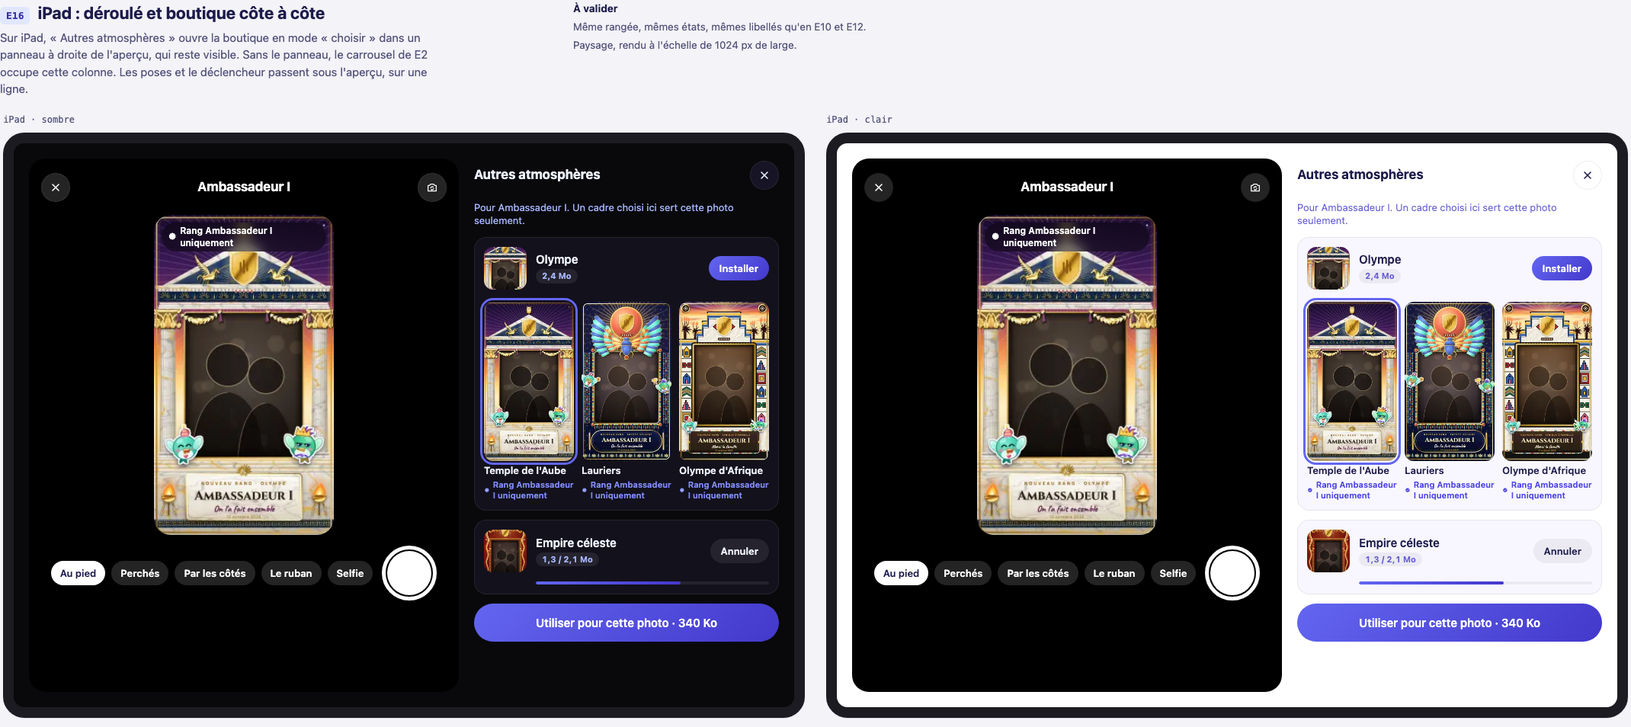
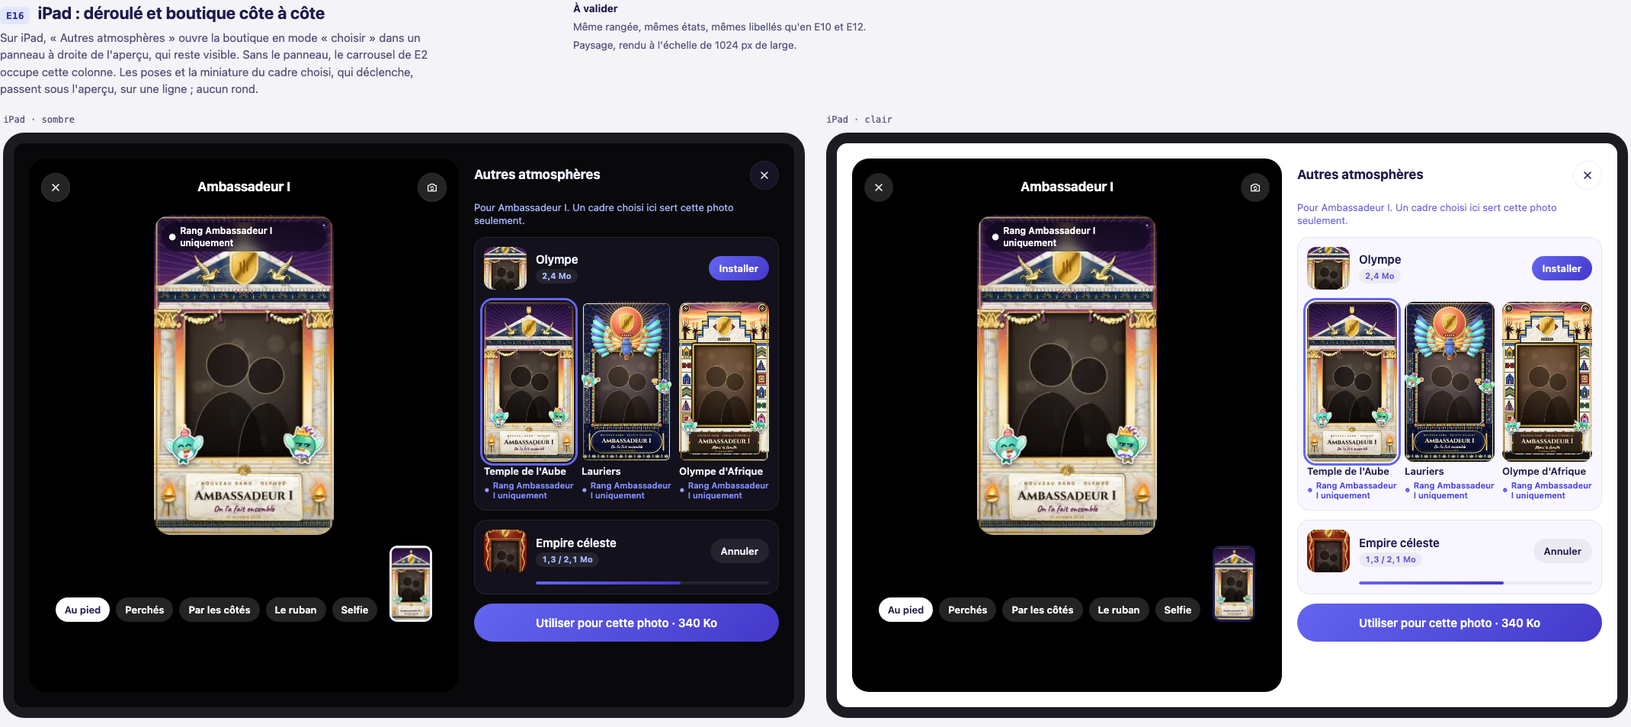
docs(cadres-de-gloire): brouillon L0b — plus de rond d'enregistrement à côté des cadres : la case du cadre choisi déclenche, comme la caméra du composer (bande ouverte, repliée, enregistrement) ; E18 prise par le cadre ⇒ Photos puis retouche, E19 prise hors cadre ⇒ retouche gardée dans Meeshy, E20 E

diff --git a/docs/product/cadres-de-gloire/ecrans/index.html b/docs/product/cadres-de-gloire/ecrans/index.html
@@ -151,11 +151,54 @@ figure { margin: 0; }
 .poses { display: flex; gap: 8px; overflow: hidden; }
 .poses span { flex: none; font: 600 13px var(--font-round); padding: 8px 12px; border-radius: 999px; background: rgba(255,255,255,.14); color: #fff; }
 .poses span.on { background: #fff; color: #1e1b4b; }
-.shutter-row { display: flex; align-items: center; justify-content: space-between; padding: 0 12px; }
-.shutter { width: 74px; height: 74px; border-radius: 50%; border: 5px solid #fff; display: grid; place-items: center; }
-.shutter::after { content: ""; width: 58px; height: 58px; border-radius: 50%; background: #fff; }
 .cam .circle { background: rgba(255,255,255,.14); color: #fff; border-color: rgba(255,255,255,.18); }
 .cam .link { color: rgba(255,255,255,.85); }
+
+/* La bande du composer iOS (ComposerLookStrip, ComposerCaptureBottomRow) : la case choisie EST le déclencheur.
+   Cases 56 × 100, pas de 8, rayon MeeshyRadius.sm ; la choisie au centre, contour blanc de 3 ; rien d'écrit dans les cases,
+   seul le nom du choix s'écrit sous la bande. Le rond n'existe que sans cadre (collapsedTrigger = .shutter). */
+.band-zone { display: flex; flex-direction: column; align-items: stretch; gap: 0; position: relative; }
+.band { display: flex; gap: 8px; justify-content: center; overflow: hidden; height: 100px; }
+.cell { flex: none; width: 56px; height: 100px; border-radius: 10px; overflow: hidden; position: relative; background: rgba(255,255,255,.12); box-shadow: inset 0 0 0 1px rgba(255,255,255,.25); }
+.cell img { width: 100%; height: 100%; object-fit: cover; display: block; }
+.cell.dim img { filter: saturate(.35) brightness(.7); }
+.cell.on { box-shadow: inset 0 0 0 3px #fff; }
+.cell.on img { position: absolute; inset: 3px; width: calc(100% - 6px); height: calc(100% - 6px); border-radius: 7px; }
+.cell .glyph { position: absolute; inset: 0; display: grid; place-items: center; color: rgba(255,255,255,.7); }
+.cell .glyph svg { width: 20px; height: 20px; }
+.cell .ring { background: rgba(0,0,0,.35); }
+.cell .ring svg { width: 26px; height: 26px; }
+.cell .badge-c { inset: auto 3px 4px 3px; }
+.cell .badge-c .pill { font-size: 9.5px; padding: 1px 5px; }
+.cell .rec { position: absolute; top: 4px; left: 50%; transform: translateX(-50%); display: inline-flex; align-items: center; gap: 3px; padding: 0 6px; border-radius: 999px; background: rgba(0,0,0,.45); font: 700 11px var(--font-mono); color: #fff; white-space: nowrap; }
+.rec i, .chrono i { width: 7px; height: 7px; border-radius: 50%; background: #f87171; display: inline-block; }
+.band-name { height: 30px; display: flex; align-items: flex-end; justify-content: center; font: 700 20px var(--font-round); color: #fff; text-shadow: 0 1px 3px rgba(0,0,0,.6); white-space: nowrap; overflow: hidden; }
+.band-name.quiet { visibility: hidden; }
+.lock-track { position: absolute; right: 14px; top: 34px; display: flex; align-items: center; gap: 6px; padding: 6px 10px; border-radius: 999px; background: rgba(255,255,255,.14); color: #fff; font-size: 12px; }
+.lock-track svg { width: 15px; height: 15px; }
+.chrono { display: inline-flex; align-items: center; gap: 6px; padding: 6px 12px; border-radius: 999px; background: rgba(0,0,0,.45); font: 700 13px var(--font-mono); color: #fff; }
+.rail { position: absolute; left: 8px; bottom: 10px; display: flex; flex-direction: column; gap: 8px; pointer-events: none; }
+.rail.row { position: static; flex-direction: row; justify-content: center; gap: 28px; }
+.rail span { min-width: 44px; min-height: 44px; display: flex; flex-direction: column; align-items: center; justify-content: center; gap: 2px; font: 600 11px var(--font-ui); color: #fff; text-shadow: 0 1px 3px rgba(0,0,0,.6); }
+.rail span svg { width: 19px; height: 19px; filter: drop-shadow(0 1px 2px rgba(0,0,0,.6)); }
+.rail span.on { color: #ffcc00; }
+.trigger-ring { width: 72px; height: 72px; border-radius: 50%; box-shadow: inset 0 0 0 4px #fff; display: grid; place-items: center; margin: 14px auto; }
+.trigger-ring::after { content: ""; width: 58px; height: 58px; border-radius: 50%; background: #fff; }
+.hint { text-align: center; font: 12.5px var(--font-mono); color: rgba(255,255,255,.85); margin: 0; }
+.cam-top { display: flex; align-items: center; gap: 8px; min-height: 44px; }
+.cam-top .spacer { flex: 1; }
+.done { font: 600 15px var(--font-round); padding: 8px 16px; border-radius: 999px; background: #fff; color: #1e1b4b; }
+.toast { position: absolute; left: 50%; top: 104px; transform: translateX(-50%); display: inline-flex; align-items: center; gap: 6px; padding: 8px 14px; border-radius: 999px; background: var(--s-glass); backdrop-filter: blur(20px); border: 0.5px solid var(--s-edge); color: var(--s-ink); font: 600 13px var(--font-round); white-space: nowrap; box-shadow: 0 6px 20px rgba(0,0,0,.25); z-index: 2; }
+.toast svg { width: 15px; height: 15px; color: #34d399; }
+.saved-mark { display: inline-flex; align-items: center; gap: 4px; font-size: 12px; color: var(--s-ink3); justify-content: center; }
+.saved-mark svg { width: 13px; height: 13px; }
+.cam .saved-mark { color: rgba(255,255,255,.7); }
+.dev:not(.cam) .cell { box-shadow: inset 0 0 0 1px var(--s-edge); }
+.dev:not(.cam) .cell.on { box-shadow: inset 0 0 0 3px var(--s-ink); }
+.dev:not(.cam) .band-name { color: var(--s-ink); text-shadow: none; font-size: 17px; height: 26px; }
+.ann { font: 600 11px var(--font-mono); color: #fbbf24; text-align: center; margin: 0; }
+.t-light .ann { color: #b45309; }
+.cam .ann { color: #fbbf24; }
 
 /* Feuille modale / bannière */
 .dim-under { position: absolute; inset: 0; background: rgba(0,0,0,.42); }
@@ -235,6 +278,15 @@ figure { margin: 0; }
   <symbol id="i-up-app" viewBox="0 0 24 24"><rect x="3.5" y="3.5" width="17" height="17" rx="4.5" stroke="currentColor" stroke-width="2" fill="none"/><path d="M12 16V8m0 0l-3.5 3.5M12 8l3.5 3.5" stroke="currentColor" stroke-width="2" fill="none" stroke-linecap="round" stroke-linejoin="round"/></symbol>
   <symbol id="i-chev" viewBox="0 0 24 24"><path d="M9 5l7 7-7 7" stroke="currentColor" stroke-width="2.2" fill="none" stroke-linecap="round" stroke-linejoin="round"/></symbol>
   <symbol id="i-flame" viewBox="0 0 24 24"><path fill="currentColor" d="M12 2c1 4 5 5.5 5 11a5 5 0 01-10 0c0-2.4 1.2-3.7 2.2-4.8.2 1.6.9 2.6 1.8 3C11 8 11.2 4.6 12 2z"/></symbol>
+  <symbol id="i-frame" viewBox="0 0 24 24"><rect x="3.5" y="3.5" width="17" height="17" rx="2" stroke="currentColor" stroke-width="2" fill="none"/><rect x="7.5" y="7.5" width="9" height="9" rx="1" stroke="currentColor" stroke-width="1.6" fill="none"/></symbol>
+  <symbol id="i-filters" viewBox="0 0 24 24"><circle cx="9" cy="10" r="5.5" stroke="currentColor" stroke-width="1.8" fill="none"/><circle cx="15" cy="10" r="5.5" stroke="currentColor" stroke-width="1.8" fill="none"/><circle cx="12" cy="15" r="5.5" stroke="currentColor" stroke-width="1.8" fill="none"/></symbol>
+  <symbol id="i-crop" viewBox="0 0 24 24"><path d="M7 2.5V17h14.5M2.5 7H17v14.5" stroke="currentColor" stroke-width="2" fill="none" stroke-linecap="round" stroke-linejoin="round"/></symbol>
+  <symbol id="i-lock" viewBox="0 0 24 24"><rect x="5" y="10.5" width="14" height="10" rx="2.5" fill="currentColor"/><path d="M8 10.5V8a4 4 0 018 0v2.5" stroke="currentColor" stroke-width="2" fill="none"/></symbol>
+  <symbol id="i-check" viewBox="0 0 24 24"><circle cx="12" cy="12" r="10" fill="currentColor"/><path d="M7.5 12.2l3 3 6-6.4" stroke="#fff" stroke-width="2.2" fill="none" stroke-linecap="round" stroke-linejoin="round"/></symbol>
+  <symbol id="i-size" viewBox="0 0 24 24"><path d="M4 9V4h5M20 9V4h-5M4 15v5h5M20 15v5h-5" stroke="currentColor" stroke-width="2.2" fill="none" stroke-linecap="round" stroke-linejoin="round"/></symbol>
+  <symbol id="i-bolt" viewBox="0 0 24 24"><path fill="currentColor" d="M13.5 2L5 13.5h6L10 22l9-12h-6z"/></symbol>
+  <symbol id="i-none" viewBox="0 0 24 24"><circle cx="12" cy="12" r="8.5" stroke="currentColor" stroke-width="2" fill="none"/><path d="M6 18L18 6" stroke="currentColor" stroke-width="2"/></symbol>
+  <symbol id="i-app" viewBox="0 0 24 24"><rect x="4" y="3" width="16" height="18" rx="4" stroke="currentColor" stroke-width="2" fill="none"/><path d="M8.5 9h7M8.5 13h4.5" stroke="currentColor" stroke-width="2" stroke-linecap="round"/></symbol>
   <symbol id="i-link" viewBox="0 0 24 24"><path d="M10 14a4 4 0 005.7 0l3-3a4 4 0 00-5.7-5.7l-1 1M14 10a4 4 0 00-5.7 0l-3 3a4 4 0 005.7 5.7l1-1" stroke="currentColor" stroke-width="2" fill="none" stroke-linecap="round"/></symbol>
 </svg>
 
@@ -243,6 +295,7 @@ figure { margin: 0; }
     <h1>Cadres de gloire · les écrans neufs</h1>
     <p>Brouillon de design du lot L0b (<code>#10147</code>), daté du 12 octobre 2026. Chaque écran se valide séparément par son numéro (E1 à E17). Tous sont dérivés de l'interface iOS livrée : jetons <code>MeeshyColors</code>, boutons en verre, Boutique des packs (<code>PackShopView</code>, <code>FramePackShelfView</code>, <code>pack-shop.tsx</code> sur le web).</p>
     <p>Chaque vignette de cadre affiche son <b>libellé d'usage</b>, tiré de la loi <code>describeFrameUsage</code> et des textes déjà traduits (« Rang Ambassadeur I uniquement », « Capture photo et vidéo uniquement »…). Les poids des packs sont des estimations de la spec (§ 5.10.5), que le lot L3 mesurera. Les mots entre guillemets sont proposés et restent à valider ; les noms de cadres (« Baobab d'or », « Temple de l'Aube »…) sont provisoires, le lot L16 les fixera. Une étape sans cadre livré (les mythologies de Murmure à Polyglotte, lot L15) montre la carte actuelle.</p>
+    <p><b>Révisé le 12 octobre 2026 sur le retour du porteur (#10284)</b> : il n'y a plus de rond d'enregistrement à côté des cadres. Comme dans la caméra du composer iOS, la case du cadre choisi EST le déclencheur (E2, E3, E14, E16). Une prise par la case de cadre rejoint Photos puis la retouche (E18) ; une prise hors du cadre va en retouche et reste dans Meeshy (E19) ; « Enregistrer » est masqué tant que la prise est dans Photos avec le cadre affiché, et revient quand on en change (E20). Le rond ne subsiste que sans aucun cadre choisi (E14, variante 2).</p>
     <p>Chaque écran est montré en clair, en sombre et, quand la largeur change la disposition, à 320 px. L'iPad (E16) et le web de bureau (E17) ont leur propre composition.</p>
     <nav aria-label="Écrans"><ul class="toc" id="toc"></ul></nav>
   </header>
@@ -274,26 +327,45 @@ figure { margin: 0; }
   </section>
 
   <!-- E2 -->
-  <section class="screen-section" id="e2" data-name="Écran caméra et carrousel">
+  <section class="screen-section" id="e2" data-name="Caméra : la case de cadre déclenche">
     <div class="screen-head">
-      <div><h2><span class="id">E2</span> Déroulé photo : caméra, carrousel de décors et poses</h2>
-      <p class="lead">Chemin nominal en deux gestes : « Immortaliser » puis déclencher, cadre et pose déjà choisis. Sous l'aperçu, le carrousel des décors de l'atmosphère, puis les poses de Mee et Meo. L'aperçu à l'écran est l'image finale.</p></div>
-      <div class="note"><b>À valider : la présence de chaque tuile</b><span>Prête (vignette nette), à télécharger (pastille de poids), en cours (anneau), échec (« Réessayer »), plus de place (pastille rouge).</span><span>Toucher une tuile absente la met en tête de file ; l'aperçu bascule quand le cadre est prêt, sans spinner, avec la carte simple en attendant.</span><span>Le cadre choisi affiche son usage sur l'aperçu. « Autres atmosphères » ouvre la boutique en mode « choisir » (E12).</span></div>
+      <div><h2><span class="id">E2</span> Déroulé photo : la bande des cadres, dont la case choisie déclenche</h2>
+      <p class="lead">La caméra du composer iOS, reprise telle quelle (<code>ComposerLookStrip</code>, <code>ComposerCaptureBottomRow</code>) : la bande des décors de l'atmosphère, la case choisie au centre, encadrée de blanc, et son nom écrit seul sous la bande. <b>La case choisie EST le déclencheur</b> : la toucher prend la photo, la tenir filme. Il n'y a pas de rond en plus. Les poses de Mee et Meo restent au-dessus de la bande.</p></div>
+      <div class="note"><b>À valider</b><span>Une prise par la case de cadre rejoint Photos, puis la retouche (E18). Une prise par la scène (toucher deux fois l'aperçu, ou le tenir) va en retouche et reste dans Meeshy seulement (E19).</span><span>Les cases n'écrivent rien : la présence de chaque décor se lit sur sa case (prête, poids, anneau de téléchargement, « Réessayer », « Plein »). Glisser la bande choisit la case du centre ; une case absente passe en tête de file, la carte simple tient l'aperçu en attendant.</span><span>Le « + » en bout de bande ouvre « Autres atmosphères » (E12). Le rail « Filtres · Cadres » est celui du composer. L'import depuis la galerie prend la place du flash en haut ; « Carte seule » reste dans la feuille « On immortalise ? ».</span><span>Repliée (rail refermé), la miniature choisie reste seule et déclenche toujours. En enregistrement, seule elle reste, avec son point rouge et son chrono, et le cadenas à droite.</span><span>La caméra est noire dans les deux thèmes, comme celle du composer.</span></div>
     </div>
-    <div class="stage" data-variants="dark 320" data-force="cam"><template>
+    <div class="stage" data-variants="dark 320" data-force="cam"><template data-label="bande ouverte">
       <div class="content">
-        <div class="nav"><span class="circle"><svg><use href="#i-x"/></svg></span><h3>Ambassadeur I</h3><span class="circle"><svg><use href="#i-flip"/></svg></span></div>
-        <div class="viewer"><img src="vignettes/savane-ambassadeur-1.webp" alt="Aperçu : cadre Savane d'Ambassadeur I"><div class="over"><span class="usage on-media" style="align-self:flex-start"><svg><use href="#i-seal"/></svg>Rang Ambassadeur I uniquement</span></div></div>
-        <div class="carousel">
-          <div class="ctile sel"><div class="thumb"><img src="vignettes/savane-ambassadeur-1.webp" alt=""></div><span class="lbl">Baobab d'or</span></div>
-          <div class="ctile"><div class="thumb"><img src="vignettes/royaumes-ambassadeur-1.webp" alt=""></div><span class="lbl">Cour du roi</span></div>
-          <div class="ctile"><div class="thumb dim"><img src="vignettes/egypte-ambassadeur-1.webp" alt=""><div class="ring"><svg viewBox="0 0 36 36"><circle cx="18" cy="18" r="14" stroke="rgba(255,255,255,.35)" stroke-width="4" fill="none"/><circle cx="18" cy="18" r="14" stroke="#fff" stroke-width="4" fill="none" stroke-dasharray="88" stroke-dashoffset="50" transform="rotate(-90 18 18)" stroke-linecap="round"/></svg></div></div><span class="lbl">En cours</span></div>
-          <div class="ctile"><div class="thumb dim"><img src="vignettes/olympe-ambassadeur-1.webp" alt=""><div class="badge-c"><span class="pill">340 Ko</span></div></div><span class="lbl">Temple</span></div>
-          <div class="ctile"><div class="thumb dim"><img src="vignettes/nord-ambassadeur-1.webp" alt=""><div class="ring"><svg viewBox="0 0 24 24" style="width:22px;height:22px;color:#fff"><use href="#i-retry"/></svg></div></div><span class="lbl">Réessayer</span></div>
-          <div class="ctile"><div class="thumb dim"><img src="vignettes/abysses-ambassadeur-1.webp" alt=""><div class="badge-c"><span class="pill" style="background:#991b1b">Plein</span></div></div><span class="lbl">Plus de place</span></div>
-        </div>
+        <div class="cam-top"><span class="circle"><svg><use href="#i-x"/></svg></span><span class="spacer"></span><span class="circle"><svg><use href="#i-photo"/></svg></span><span class="circle"><svg><use href="#i-flip"/></svg></span></div>
+        <div class="viewer"><img src="vignettes/savane-ambassadeur-1.webp" alt="Aperçu : cadre Baobab d'or, Ambassadeur I"><div class="over"><span class="usage on-media" style="align-self:flex-start"><svg><use href="#i-seal"/></svg>Rang Ambassadeur I uniquement</span></div><div class="rail"><span><svg><use href="#i-filters"/></svg>Filtres</span><span class="on"><svg><use href="#i-frame"/></svg>Cadres</span></div></div>
         <div class="poses"><span class="on">Au pied</span><span>Perchés</span><span>Par les côtés</span><span>Le ruban</span><span>Selfie</span></div>
-        <div class="shutter-row"><span class="circle"><svg><use href="#i-photo"/></svg></span><span class="shutter" aria-label="Prendre la photo"></span><span class="link">Autres<br>atmosphères</span></div>
+        <div class="band-zone">
+          <div class="band">
+            <span class="cell"><img src="vignettes/celeste-ambassadeur-1.webp" alt=""></span>
+            <span class="cell dim"><img src="vignettes/nord-ambassadeur-1.webp" alt=""><span class="ring glyph"><svg viewBox="0 0 24 24" style="color:#fff"><use href="#i-retry"/></svg></span></span>
+            <span class="cell"><img src="vignettes/neon-ambassadeur-1.webp" alt=""></span>
+            <span class="cell"><img src="vignettes/royaumes-ambassadeur-1.webp" alt=""></span>
+            <span class="cell on" role="button" aria-label="Baobab d'or : toucher pour une photo, maintenir pour filmer"><img src="vignettes/savane-ambassadeur-1.webp" alt=""></span>
+            <span class="cell dim"><img src="vignettes/egypte-ambassadeur-1.webp" alt=""><span class="ring"><svg viewBox="0 0 36 36"><circle cx="18" cy="18" r="14" stroke="rgba(255,255,255,.35)" stroke-width="4" fill="none"/><circle cx="18" cy="18" r="14" stroke="#fff" stroke-width="4" fill="none" stroke-dasharray="88" stroke-dashoffset="50" transform="rotate(-90 18 18)" stroke-linecap="round"/></svg></span></span>
+            <span class="cell dim"><img src="vignettes/olympe-ambassadeur-1.webp" alt=""><span class="badge-c"><span class="pill">340 Ko</span></span></span>
+            <span class="cell dim"><img src="vignettes/abysses-ambassadeur-1.webp" alt=""><span class="badge-c"><span class="pill" style="background:#991b1b">Plein</span></span></span>
+            <span class="cell"><span class="glyph"><svg><use href="#i-plus"/></svg></span></span>
+          </div>
+          <div class="band-name">Baobab d'or</div>
+        </div>
+      </div>
+    </template><template data-label="repliée : la miniature choisie, seule" data-variants="dark">
+      <div class="content">
+        <div class="cam-top"><span class="circle"><svg><use href="#i-x"/></svg></span><span class="spacer"></span><span class="circle"><svg><use href="#i-photo"/></svg></span><span class="circle"><svg><use href="#i-flip"/></svg></span></div>
+        <div class="viewer"><img src="vignettes/savane-ambassadeur-1.webp" alt="Aperçu : cadre Baobab d'or"><div class="over"><span class="usage on-media" style="align-self:flex-start"><svg><use href="#i-seal"/></svg>Rang Ambassadeur I uniquement</span></div><div class="rail"><span><svg><use href="#i-filters"/></svg>Filtres</span><span><svg><use href="#i-frame"/></svg>Cadres</span></div></div>
+        <div class="poses"><span class="on">Au pied</span><span>Perchés</span><span>Par les côtés</span><span>Le ruban</span><span>Selfie</span></div>
+        <div class="band-zone"><div class="band"><span class="cell on" role="button" aria-label="Baobab d'or : toucher pour une photo, maintenir pour filmer"><img src="vignettes/savane-ambassadeur-1.webp" alt=""></span></div><div class="band-name quiet">Baobab d'or</div></div>
+      </div>
+    </template><template data-label="enregistrement en cours" data-variants="dark">
+      <div class="content">
+        <div class="cam-top"><span class="circle"><svg><use href="#i-x"/></svg></span><span class="chrono"><i></i>0:04</span><span class="spacer"></span></div>
+        <div class="viewer"><img src="vignettes/savane-ambassadeur-1.webp" alt="Aperçu : cadre Baobab d'or, vidéo en cours"><div class="over"><span class="usage on-media" style="align-self:flex-start"><svg><use href="#i-seal"/></svg>Rang Ambassadeur I uniquement</span></div></div>
+        <div class="poses" style="visibility:hidden"><span>Au pied</span></div>
+        <div class="band-zone"><div class="band"><span class="cell on"><img src="vignettes/savane-ambassadeur-1.webp" alt=""><span class="rec"><i></i>4″</span></span></div><span class="lock-track" aria-hidden="true">› › <svg><use href="#i-lock"/></svg></span><div class="band-name quiet">Baobab d'or</div></div>
       </div>
     </template></div>
   </section>
@@ -303,14 +375,14 @@ figure { margin: 0; }
     <div class="screen-head">
       <div><h2><span class="id">E3</span> Pose « Selfie » et guide de cadrage</h2>
       <p class="lead">Seule pose où Meo entre dans la photo, et seulement si on la choisit. Un guide place le visage hors de sa zone, sans aucune analyse de l'image. Les autres poses gardent Mee et Meo autour de la fenêtre, jamais dessus.</p></div>
-      <div class="note"><b>À valider</b><span>Ovale pointillé blanc pour le visage, zone hachurée ambre pour Meo, une phrase d'aide qui s'efface après trois secondes.</span><span>Carte seule et galerie restent dans la même rangée que le déclencheur.</span></div>
+      <div class="note"><b>À valider</b><span>Ovale pointillé blanc pour le visage, zone hachurée ambre pour Meo, une phrase d'aide qui s'efface après trois secondes.</span><span>Le bas est celui de E2, bande repliée : la miniature du cadre choisi déclenche, aucun rond à côté. « Carte seule » reste dans la feuille « On immortalise ? ».</span></div>
     </div>
-    <div class="stage" data-variants="dark light" data-force="cam"><template>
+    <div class="stage" data-variants="dark" data-force="cam"><template>
       <div class="content">
-        <div class="nav"><span class="circle"><svg><use href="#i-x"/></svg></span><h3>Ambassadeur I</h3><span class="circle"><svg><use href="#i-flip"/></svg></span></div>
-        <div class="viewer"><img src="vignettes/royaumes-ambassadeur-1.webp" alt=""><span class="guide"></span><span class="meo-zone"></span><div class="over" style="justify-content:flex-end"><span class="usage on-media" style="align-self:center">Garde ton visage dans l'ovale, Meo se place à droite</span></div></div>
+        <div class="cam-top"><span class="circle"><svg><use href="#i-x"/></svg></span><span class="spacer"></span><span class="circle"><svg><use href="#i-photo"/></svg></span><span class="circle"><svg><use href="#i-flip"/></svg></span></div>
+        <div class="viewer"><img src="vignettes/royaumes-ambassadeur-1.webp" alt="Aperçu : cadre Cour du roi, pose Selfie"><span class="guide"></span><span class="meo-zone"></span><div class="over" style="justify-content:flex-end"><span class="usage on-media" style="align-self:center">Garde ton visage dans l'ovale, Meo se place à droite</span></div><div class="rail" style="bottom:52px"><span><svg><use href="#i-filters"/></svg>Filtres</span><span><svg><use href="#i-frame"/></svg>Cadres</span></div></div>
         <div class="poses"><span>Au pied</span><span>Perchés</span><span>Par les côtés</span><span>Le ruban</span><span class="on">Selfie</span></div>
-        <div class="shutter-row"><span class="circle"><svg><use href="#i-photo"/></svg></span><span class="shutter"></span><span class="link">Carte<br>seule</span></div>
+        <div class="band-zone"><div class="band"><span class="cell on" role="button" aria-label="Cour du roi : toucher pour une photo, maintenir pour filmer"><img src="vignettes/royaumes-ambassadeur-1.webp" alt=""></span></div><div class="band-name quiet">Cour du roi</div></div>
       </div>
     </template></div>
   </section>
@@ -320,7 +392,7 @@ figure { margin: 0; }
     <div class="screen-head">
       <div><h2><span class="id">E4</span> Résultat : message, Flamme, lien, et cadre d'une autre atmosphère</h2>
       <p class="lead">L'image fixe, recomposée depuis la photo. On y change cadre, pose et message sans reprendre la photo. Ici le cadre vient d'Olympe, pris « pour cette photo seulement » : d'où « Faire d'Olympe mon atmosphère » et, plus discret, « Ajouter à mes cadres ».</p></div>
-      <div class="note"><b>À valider</b><span>Champ de message seulement sur un cadre qui a un support (ruban, cartouche, parchemin) : 60 caractères au plus, une ligne, police manuscrite, aucun texte par défaut.</span><span>« Afficher ma Flamme » et « Partager avec mon lien », sur le web comme sur iOS. Formats 9:16 et 1:1.</span><span>Ordre des gestes : Partager, Enregistrer, Garder.</span></div>
+      <div class="note"><b>À valider</b><span>Champ de message seulement sur un cadre qui a un support (ruban, cartouche, parchemin) : 60 caractères au plus, une ligne, police manuscrite, aucun texte par défaut.</span><span>« Afficher ma Flamme » et « Partager avec mon lien », sur le web comme sur iOS. Formats 9:16 et 1:1.</span><span>Ordre des gestes : Partager, Enregistrer, Garder. « Enregistrer » n'apparaît que si la prise n'est pas déjà dans Photos avec ce cadre (E18 à E20).</span></div>
     </div>
     <div class="stage" data-variants="light dark 320"><template>
       <div class="content">
@@ -343,6 +415,95 @@ figure { margin: 0; }
         <div class="card" style="padding:10px 12px"><div class="row"><span class="grow sub" style="flex:1">Ce cadre vient d'Olympe.</span><button class="btn sm">Faire d'Olympe mon atmosphère</button></div><span class="link" style="text-align:left">Ajouter à mes cadres</span></div>
         <div class="row" style="margin-top:auto"><button class="btn sec" style="flex:1">Partager</button><button class="btn sec" style="flex:1">Enregistrer</button><button class="btn" style="flex:1">Garder</button></div>
       </div>
+    </template></div>
+  </section>
+
+  <!-- E18 -->
+  <section class="screen-section" id="e18" data-name="Prise par le cadre">
+    <div class="screen-head">
+      <div><h2><span class="id">E18</span> Prise par la case de cadre : enregistrée dans Photos, puis la retouche</h2>
+      <p class="lead">Toucher ou tenir la case de cadre choisie (E2, E3, E14) prend la photo ou la vidéo AVEC son cadre, l'enregistre dans Photos, puis ouvre la retouche. Une pastille discrète le dit, « Enregistrée dans Photos », et s'efface seule ; « Enregistrer » est déjà fait, il n'apparaît pas.</p></div>
+      <div class="note"><b>À valider</b><span>Pastille non modale, annoncée poliment aux lecteurs d'écran, partie après deux secondes ; elle ne prend jamais le focus.</span><span>La directive du 12 octobre (#10284) supplante ici le réglage de Médias (#9684, « l'original jamais dans Photos par défaut ») : viser le cadre, c'est demander la photo.</span><span>Variante 2 : la même règle dans la retouche du composer : la flèche ⬇ de la rangée haute n'est pas là, « Terminé » seul à droite.</span><span>Un refus d'accès à Photos se dit comme aujourd'hui (le message de la caméra) ; la retouche s'ouvre quand même, « Enregistrer » visible.</span></div>
+    </div>
+    <div class="stage" data-variants="light dark 320"><template data-label="jeu">
+      <div class="content">
+        <div class="nav"><span class="circle"><svg><use href="#i-back"/></svg></span><h3>Ta photo</h3><span class="circle"><svg><use href="#i-x"/></svg></span></div>
+        <div class="row" style="justify-content:center"><div class="thumb" style="width:60%"><img src="vignettes/savane-ambassadeur-1.webp" alt="Aperçu : cadre Baobab d'or"></div></div>
+        <div class="stack" style="text-align:center;gap:2px;align-items:center"><span class="sub">Baobab d'or · Afrique éternelle</span><span class="usage"><svg><use href="#i-seal"/></svg>Rang Ambassadeur I uniquement</span></div>
+        <div class="row wrap" style="justify-content:center"><span class="pill">Changer le cadre</span><span class="pill">Changer la pose</span></div>
+        <div class="row" style="margin-top:auto"><button class="btn sec" style="flex:1">Partager</button><button class="btn" style="flex:1">Garder</button></div>
+      </div>
+      <div class="toast" role="status"><svg><use href="#i-check"/></svg>Enregistrée dans Photos</div>
+    </template><template data-label="variante 2 · composer" data-variants="dark" data-force="cam">
+      <div class="content">
+        <div class="cam-top"><span class="circle"><svg><use href="#i-x"/></svg></span><span class="spacer"></span><span class="circle"><svg><use href="#i-size"/></svg></span><span class="done">Terminé</span></div>
+        <div class="viewer" style="max-height:520px"><img src="vignettes/poses-ruban.webp" alt="Retouche : cadre Ruban"></div>
+        <div class="rail row" style="margin-top:auto"><span><svg><use href="#i-filters"/></svg>Filtres</span><span><svg><use href="#i-frame"/></svg>Cadres</span><span><svg><use href="#i-crop"/></svg>Recadrer</span></div>
+      </div>
+      <div class="toast" role="status"><svg><use href="#i-check"/></svg>Enregistrée dans Photos</div>
+    </template></div>
+  </section>
+
+  <!-- E19 -->
+  <section class="screen-section" id="e19" data-name="Prise hors cadre">
+    <div class="screen-head">
+      <div><h2><span class="id">E19</span> Prise hors de la case de cadre : la retouche, gardée dans Meeshy seulement</h2>
+      <p class="lead">Toucher deux fois l'aperçu, le tenir, ou le rond quand aucun cadre n'est choisi (E14, variante 2) : la prise s'ouvre en retouche, gardée dans l'application, jamais dans Photos. Aucune pastille de galerie ; « Enregistrer » reste visible pour qui la veut dans Photos.</p></div>
+      <div class="note"><b>À valider</b><span>Même retouche qu'en E18 : seule la présence d'« Enregistrer » change, et rien n'est écrit pour l'expliquer.</span><span>« Garder » range la photo dans le carnet du jeu ; dans le composer, « Terminé » la pose dans la publication : dans les deux cas elle vit dans Meeshy.</span><span>Variante 2 : la retouche du composer, flèche ⬇ visible entre la taille et « Terminé ».</span></div>
+    </div>
+    <div class="stage" data-variants="light dark 320"><template data-label="jeu">
+      <div class="content">
+        <div class="nav"><span class="circle"><svg><use href="#i-back"/></svg></span><h3>Ta photo</h3><span class="circle"><svg><use href="#i-x"/></svg></span></div>
+        <div class="row" style="justify-content:center"><div class="thumb" style="width:60%"><img src="vignettes/savane-ambassadeur-1.webp" alt="Aperçu : cadre Baobab d'or"></div></div>
+        <div class="stack" style="text-align:center;gap:2px;align-items:center"><span class="sub">Baobab d'or · Afrique éternelle</span><span class="usage"><svg><use href="#i-seal"/></svg>Rang Ambassadeur I uniquement</span></div>
+        <div class="row wrap" style="justify-content:center"><span class="pill">Changer le cadre</span><span class="pill">Changer la pose</span></div>
+        <div class="row" style="margin-top:auto"><button class="btn sec" style="flex:1">Partager</button><button class="btn sec" style="flex:1">Enregistrer</button><button class="btn" style="flex:1">Garder</button></div>
+      </div>
+      
+    </template><template data-label="variante 2 · composer" data-variants="dark" data-force="cam">
+      <div class="content">
+        <div class="cam-top"><span class="circle"><svg><use href="#i-x"/></svg></span><span class="spacer"></span><span class="circle"><svg><use href="#i-size"/></svg></span><span class="circle" aria-label="Enregistrer dans Photos"><svg><use href="#i-down"/></svg></span><span class="done">Terminé</span></div>
+        <div class="viewer" style="max-height:520px"><img src="vignettes/poses-ruban.webp" alt="Retouche : cadre Ruban"></div>
+        <div class="rail row" style="margin-top:auto"><span><svg><use href="#i-filters"/></svg>Filtres</span><span><svg><use href="#i-frame"/></svg>Cadres</span><span><svg><use href="#i-crop"/></svg>Recadrer</span></div>
+      </div>
+      
+    </template></div>
+  </section>
+
+  <!-- E20 -->
+  <section class="screen-section" id="e20" data-name="Enregistrer et changement de cadre">
+    <div class="screen-head">
+      <div><h2><span class="id">E20</span> « Enregistrer » : masqué avec le cadre déjà enregistré, de retour quand on change de cadre</h2>
+      <p class="lead">La retouche se souvient du cadre avec lequel la prise est dans Photos. Tant que c'est le cadre affiché, « Enregistrer » est masqué. Changer de cadre le fait revenir ; l'enregistrer de nouveau le masque, avec la même pastille.</p></div>
+      <div class="note"><b>À valider</b><span>Étape 1 : prise par la case « Baobab d'or », déjà dans Photos : Partager, Garder.</span><span>Étape 2 : « Changer le cadre » ouvre la bande sous l'image, comme la retouche du composer ; choisir « Cour du roi » ramène « Enregistrer ».</span><span>Étape 3 : « Enregistrer » touché : la pastille, puis le bouton s'efface.</span><span>Revenir à un cadre déjà enregistré le masque de nouveau : la retouche garde la liste des cadres déjà dans Photos pour cette prise, et rien d'autre.</span></div>
+    </div>
+    <div class="stage" data-variants="light dark 320"><template data-label="1 · enregistrée avec ce cadre">
+      <div class="content">
+        <div class="nav"><span class="circle"><svg><use href="#i-back"/></svg></span><h3>Ta photo</h3><span class="circle"><svg><use href="#i-x"/></svg></span></div>
+        <div class="row" style="justify-content:center"><div class="thumb" style="width:60%"><img src="vignettes/savane-ambassadeur-1.webp" alt="Aperçu : cadre Baobab d'or"></div></div>
+        <div class="stack" style="text-align:center;gap:2px;align-items:center"><span class="sub">Baobab d'or · Afrique éternelle</span><span class="usage"><svg><use href="#i-seal"/></svg>Rang Ambassadeur I uniquement</span></div>
+        <div class="row wrap" style="justify-content:center"><span class="pill">Changer le cadre</span><span class="pill">Changer la pose</span></div>
+        <div class="row" style="margin-top:auto"><button class="btn sec" style="flex:1">Partager</button><button class="btn" style="flex:1">Garder</button></div>
+      </div>
+      
+    </template><template data-label="2 · cadre changé">
+      <div class="content">
+        <div class="nav"><span class="circle"><svg><use href="#i-back"/></svg></span><h3>Ta photo</h3><span class="circle"><svg><use href="#i-x"/></svg></span></div>
+        <div class="row" style="justify-content:center"><div class="thumb" style="width:44%"><img src="vignettes/royaumes-ambassadeur-1.webp" alt="Aperçu : cadre Cour du roi"></div></div>
+        <div class="stack" style="text-align:center;gap:2px;align-items:center"><span class="sub">Cour du roi · Afrique éternelle</span><span class="usage"><svg><use href="#i-seal"/></svg>Rang Ambassadeur I uniquement</span></div>
+        <div class="band-zone"><div class="band"><span class="cell"><img src="vignettes/nord-ambassadeur-1.webp" alt=""></span><span class="cell"><img src="vignettes/savane-ambassadeur-1.webp" alt=""></span><span class="cell on"><img src="vignettes/royaumes-ambassadeur-1.webp" alt=""></span><span class="cell"><img src="vignettes/egypte-ambassadeur-1.webp" alt=""></span><span class="cell"><img src="vignettes/olympe-ambassadeur-1.webp" alt=""></span></div><div class="band-name">Cour du roi</div></div><p class="ann">Enregistrer revient : ce cadre n'est pas encore dans Photos</p>
+        <div class="row" style="margin-top:auto"><button class="btn sec" style="flex:1">Partager</button><button class="btn sec" style="flex:1">Enregistrer</button><button class="btn" style="flex:1">Garder</button></div>
+      </div>
+      
+    </template><template data-label="3 · réenregistrée" data-variants="light dark">
+      <div class="content">
+        <div class="nav"><span class="circle"><svg><use href="#i-back"/></svg></span><h3>Ta photo</h3><span class="circle"><svg><use href="#i-x"/></svg></span></div>
+        <div class="row" style="justify-content:center"><div class="thumb" style="width:60%"><img src="vignettes/royaumes-ambassadeur-1.webp" alt="Aperçu : cadre Cour du roi"></div></div>
+        <div class="stack" style="text-align:center;gap:2px;align-items:center"><span class="sub">Cour du roi · Afrique éternelle</span><span class="usage"><svg><use href="#i-seal"/></svg>Rang Ambassadeur I uniquement</span></div>
+        <div class="row wrap" style="justify-content:center"><span class="pill">Changer le cadre</span><span class="pill">Changer la pose</span></div>
+        <div class="row" style="margin-top:auto"><button class="btn sec" style="flex:1">Partager</button><button class="btn" style="flex:1">Garder</button></div>
+      </div>
+      <div class="toast" role="status"><svg><use href="#i-check"/></svg>Enregistrée dans Photos</div>
     </template></div>
   </section>
 
@@ -563,19 +724,36 @@ figure { margin: 0; }
   </section>
 
   <!-- E14 -->
-  <section class="screen-section" id="e14" data-name="Puces des cadres de capture">
+  <section class="screen-section" id="e14" data-name="Cadres de capture et leur usage">
     <div class="screen-head">
-      <div><h2><span class="id">E14</span> Puces d'ambiance des cadres de capture, avec leur usage</h2>
-      <p class="lead">Photo du composer iOS et montage de capture d'appel. La puce choisie dit où son cadre est utilisable. Le « + » ouvre la boutique filtrée sur ces cadres.</p></div>
-      <div class="note"><b>À valider : la loi d'usage</b><span>Un cadre de capture seule n'est JAMAIS proposé en appel : en appel, ses puces n'existent pas.</span><span>Un cadre d'appel sert aussi la capture : « Utilisable : appels vidéo et captures ».</span><span>Aucun de ces cadres n'est proposé pour un succès, un rang ou un Prestige.</span></div>
+      <div><h2><span class="id">E14</span> Caméra du composer : la bande des cadres de capture, avec leur usage</h2>
+      <p class="lead">La caméra du composer iOS telle qu'elle est livrée : rail « Filtres · Cadres » en bas à gauche, bande ouverte sur les cadres, « Aucun » en tête, la case choisie au centre, son nom écrit sous la bande. La case choisie déclenche. L'aperçu dit où son cadre est utilisable ; le « + » ouvre la boutique filtrée sur ces cadres.</p></div>
+      <div class="note"><b>À valider : la loi d'usage</b><span>Un cadre de capture seule n'est JAMAIS proposé en appel : en appel, ses cases n'existent pas.</span><span>Un cadre d'appel sert aussi la capture : « Utilisable : appels vidéo et captures ». Aucun de ces cadres n'est proposé pour un succès, un rang ou un Prestige.</span><span><b>Le rond n'existe que sans cadre</b> (variante 2, <code>collapsedTrigger = .shutter</code>) : c'est alors le seul déclencheur, et sa prise est hors cadre, donc gardée dans Meeshy (E19). Dès qu'un cadre est choisi, le rond s'efface au profit de sa miniature.</span><span>Les cases voisines peignent le direct à travers leur cadre ; la planche montre leurs pictogrammes de repli.</span></div>
     </div>
-    <div class="stage" data-variants="dark light" data-force="cam"><template>
+    <div class="stage" data-variants="dark 320" data-force="cam"><template data-label="cadre « Ruban » choisi">
       <div class="content">
-        <div class="nav"><span class="circle"><svg><use href="#i-x"/></svg></span><h3>Photo</h3><span class="circle"><svg><use href="#i-flip"/></svg></span></div>
-        <div class="viewer" style="max-height:440px"><img src="vignettes/poses-ruban.webp" alt=""><div class="over"><span class="usage on-media" style="align-self:flex-start"><svg><use href="#i-seal"/></svg>Capture photo et vidéo uniquement</span></div></div>
-        <div class="poses"><span class="circle" style="width:36px;height:36px;padding:0;display:grid;place-items:center"><svg style="width:16px;height:16px"><use href="#i-plus"/></svg></span><span>Aucun</span><span class="on">Ruban</span><span>Polaroïd</span><span>Néon</span><span>Fête</span></div>
-        <div class="card" style="background:rgba(255,255,255,.08);border-color:rgba(255,255,255,.12);color:#fff"><div class="row"><span class="usage" style="color:#a5b4fc"><svg><use href="#i-seal"/></svg>Néon : Utilisable : appels vidéo et captures</span></div><div class="row"><span class="usage" style="color:#a5b4fc"><svg><use href="#i-seal"/></svg>Ruban, Polaroïd, Fête : Capture photo et vidéo uniquement</span></div></div>
-        <div class="shutter-row"><span class="circle"><svg><use href="#i-photo"/></svg></span><span class="shutter"></span><span style="width:36px"></span></div>
+        <div class="cam-top"><span class="circle"><svg><use href="#i-x"/></svg></span><span class="spacer"></span><span class="circle"><svg><use href="#i-size"/></svg></span><span class="circle"><svg><use href="#i-bolt"/></svg></span><span class="circle"><svg><use href="#i-flip"/></svg></span></div>
+        <div class="viewer" style="max-height:440px"><img src="vignettes/poses-ruban.webp" alt="Aperçu : cadre Ruban"><div class="over"><span class="usage on-media" style="align-self:flex-start"><svg><use href="#i-seal"/></svg>Capture photo et vidéo uniquement</span></div><div class="rail"><span><svg><use href="#i-filters"/></svg>Filtres</span><span class="on"><svg><use href="#i-frame"/></svg>Cadres</span></div></div>
+        <div class="card" style="background:rgba(255,255,255,.08);border-color:rgba(255,255,255,.12);color:#fff;padding:8px 10px;gap:4px"><span class="usage" style="color:#a5b4fc"><svg><use href="#i-seal"/></svg>Néon : Utilisable : appels vidéo et captures</span><span class="usage" style="color:#a5b4fc"><svg><use href="#i-seal"/></svg>Ruban, Polaroïd, Fête : Capture photo et vidéo uniquement</span></div>
+        <div class="band-zone">
+          <div class="band">
+            <span class="cell" style="visibility:hidden"></span>
+            <span class="cell"><span class="glyph"><svg><use href="#i-none"/></svg></span></span>
+            <span class="cell on" role="button" aria-label="Ruban : toucher pour une photo, maintenir pour filmer"><img src="vignettes/poses-ruban.webp" alt=""></span>
+            <span class="cell"><span class="glyph"><svg><use href="#i-photo"/></svg></span></span>
+            <span class="cell"><span class="glyph"><svg><use href="#i-frame"/></svg></span></span>
+            <span class="cell"><span class="glyph"><svg><use href="#i-seal"/></svg></span></span>
+            <span class="cell"><span class="glyph"><svg><use href="#i-plus"/></svg></span></span>
+          </div>
+          <div class="band-name">Ruban</div>
+        </div>
+      </div>
+    </template><template data-label="variante 2 · aucun cadre : le rond, seul" data-variants="dark">
+      <div class="content">
+        <div class="cam-top"><span class="circle"><svg><use href="#i-x"/></svg></span><span class="spacer"></span><span class="circle"><svg><use href="#i-size"/></svg></span><span class="circle"><svg><use href="#i-bolt"/></svg></span><span class="circle"><svg><use href="#i-flip"/></svg></span></div>
+        <div class="viewer" style="max-height:440px"><div role="img" aria-label="Aperçu sans cadre" style="width:100%;height:100%;background:radial-gradient(60% 40% at 50% 38%,#6b5a4a 0%,#3a2f27 55%,#17120e 100%)"></div><div class="rail"><span><svg><use href="#i-filters"/></svg>Filtres</span><span><svg><use href="#i-frame"/></svg>Cadres</span></div></div>
+        <span class="trigger-ring" role="button" aria-label="Prendre une photo"></span>
+        <p class="hint">toucher deux fois pour une photo · maintenir pour filmer</p>
       </div>
     </template></div>
   </section>
@@ -601,7 +779,7 @@ figure { margin: 0; }
   <section class="screen-section" id="e16" data-name="iPad">
     <div class="screen-head">
       <div><h2><span class="id">E16</span> iPad : déroulé et boutique côte à côte</h2>
-      <p class="lead">Sur iPad, « Autres atmosphères » ouvre la boutique en mode « choisir » dans un panneau à droite de l'aperçu, qui reste visible. Sans le panneau, le carrousel de E2 occupe cette colonne. Les poses et le déclencheur passent sous l'aperçu, sur une ligne.</p></div>
+      <p class="lead">Sur iPad, « Autres atmosphères » ouvre la boutique en mode « choisir » dans un panneau à droite de l'aperçu, qui reste visible. Sans le panneau, le carrousel de E2 occupe cette colonne. Les poses et la miniature du cadre choisi, qui déclenche, passent sous l'aperçu, sur une ligne ; aucun rond.</p></div>
       <div class="note"><b>À valider</b><span>Même rangée, mêmes états, mêmes libellés qu'en E10 et E12.</span><span>Paysage, rendu à l'échelle de 1024 px de large.</span></div>
     </div>
     <div class="stage" data-variants="ipad-dark ipad-light"><template>
@@ -609,7 +787,7 @@ figure { margin: 0; }
         <div class="stack" style="gap:14px;background:#000;border-radius:22px;padding:16px;color:#fff">
           <div class="nav"><span class="circle" style="background:rgba(255,255,255,.14);color:#fff"><svg><use href="#i-x"/></svg></span><h3>Ambassadeur I</h3><span class="circle" style="background:rgba(255,255,255,.14);color:#fff"><svg><use href="#i-flip"/></svg></span></div>
           <div class="viewer" style="max-height:420px;width:auto;height:420px"><img src="vignettes/olympe-ambassadeur-1.webp" alt=""><div class="over"><span class="usage on-media" style="align-self:flex-start"><svg><use href="#i-seal"/></svg>Rang Ambassadeur I uniquement</span></div></div>
-          <div class="row" style="justify-content:center;gap:12px"><div class="poses"><span class="on">Au pied</span><span>Perchés</span><span>Par les côtés</span><span>Le ruban</span><span>Selfie</span></div><span class="shutter" style="width:62px;height:62px"></span></div>
+          <div class="row" style="justify-content:center;gap:16px;align-items:flex-end"><div class="poses"><span class="on">Au pied</span><span>Perchés</span><span>Par les côtés</span><span>Le ruban</span><span>Selfie</span></div><span class="cell on" role="button" aria-label="Temple de l'Aube : toucher pour une photo, maintenir pour filmer"><img src="vignettes/olympe-ambassadeur-1.webp" alt=""></span></div>
         </div>
         <div class="stack" style="gap:12px">
           <div class="nav"><h3 style="text-align:left">Autres atmosphères</h3><span class="circle"><svg><use href="#i-x"/></svg></span></div>
@@ -670,9 +848,9 @@ figure { margin: 0; }
     return fig;
   };
   document.querySelectorAll('.stage').forEach((stage) => {
-    const variants = stage.dataset.variants.split(' ');
-    const force = stage.dataset.force;
     stage.querySelectorAll('template').forEach((tpl) => {
+      const variants = (tpl.dataset.variants ?? stage.dataset.variants).split(' ');
+      const force = tpl.dataset.force ?? stage.dataset.force;
       variants.forEach((variant) => stage.append(device(variant, tpl.innerHTML, force, tpl.dataset.label)));
     });
   });
